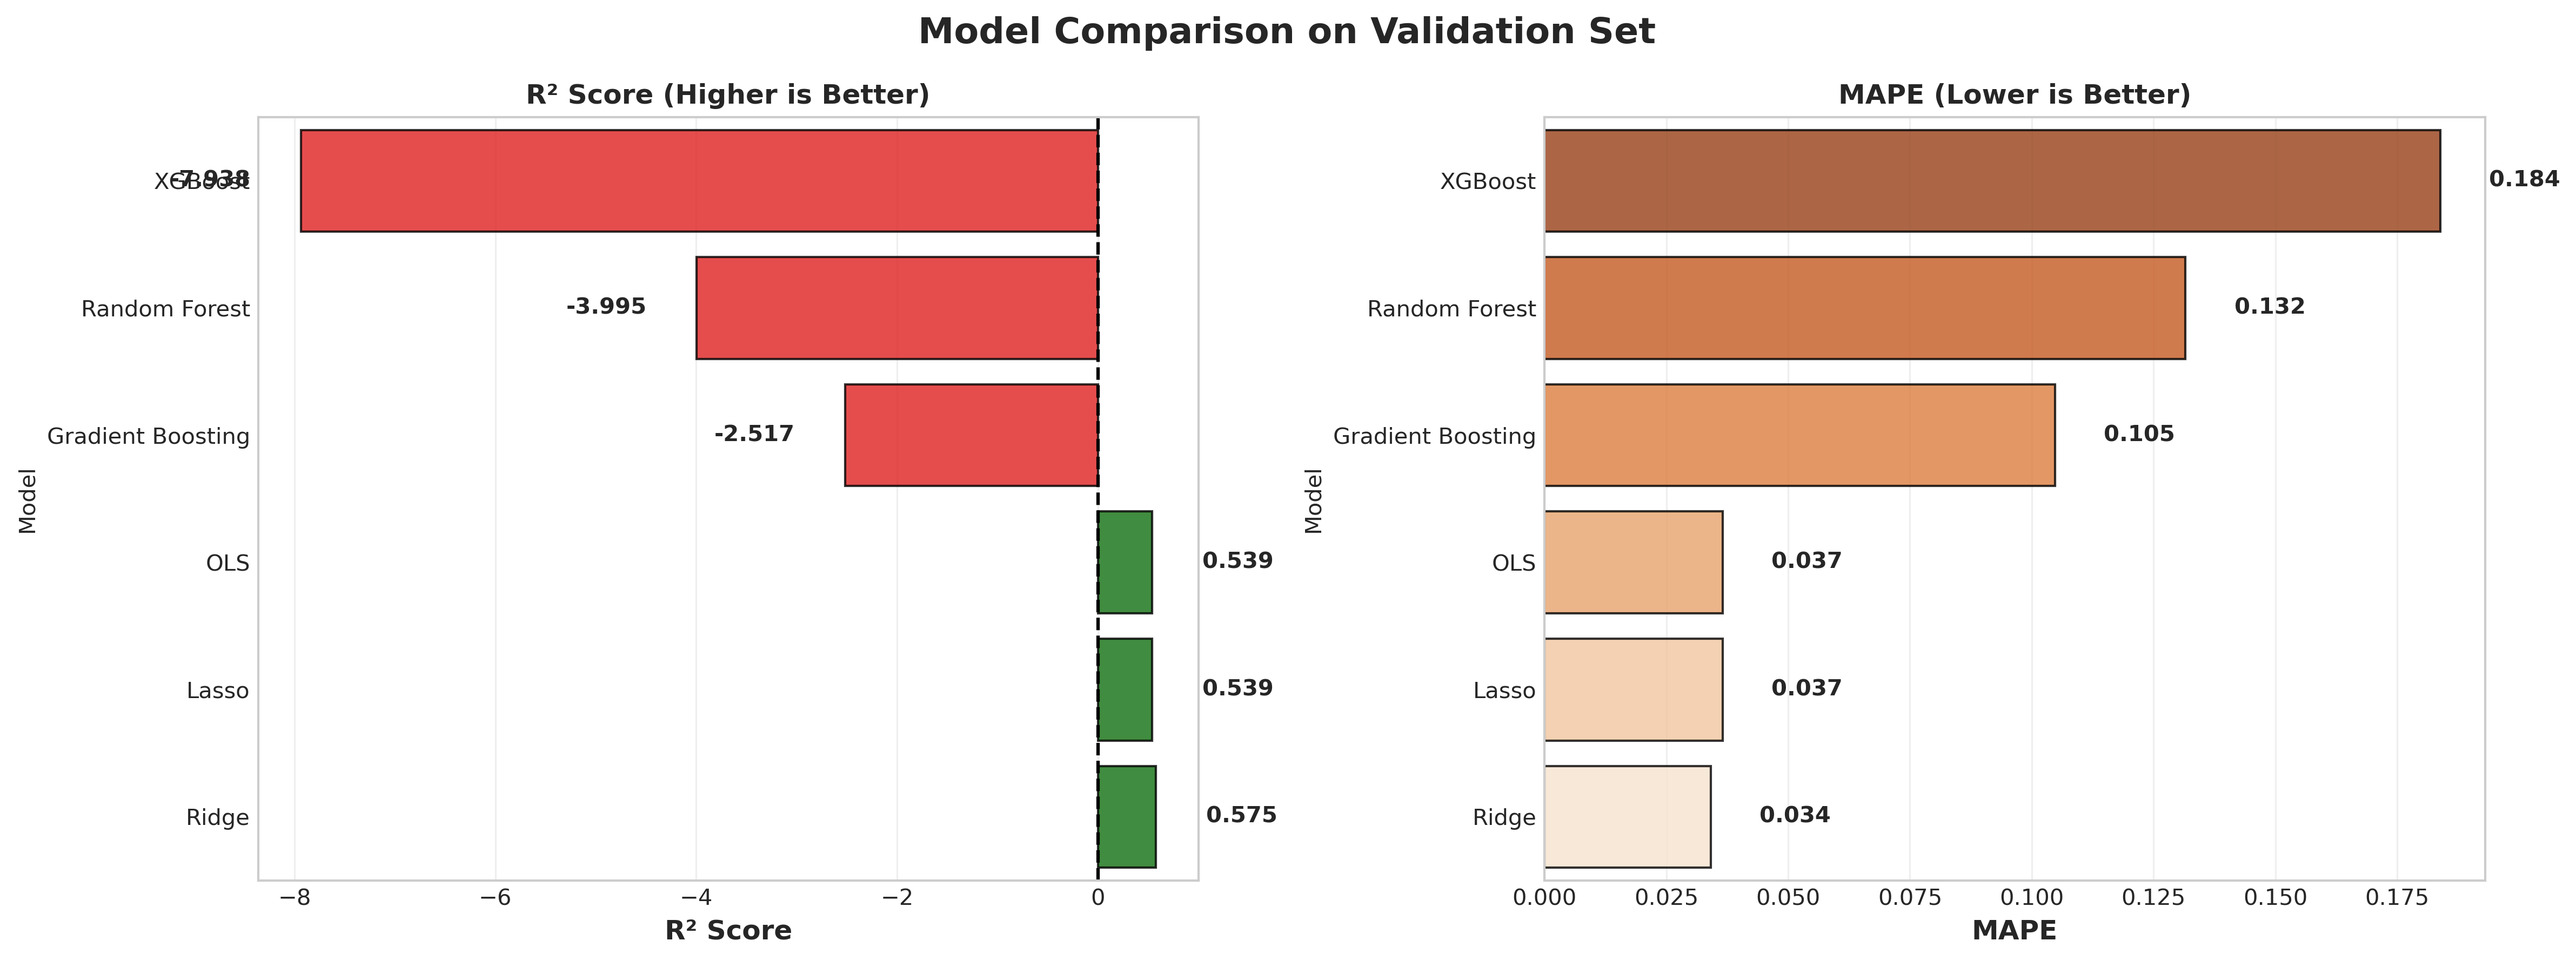
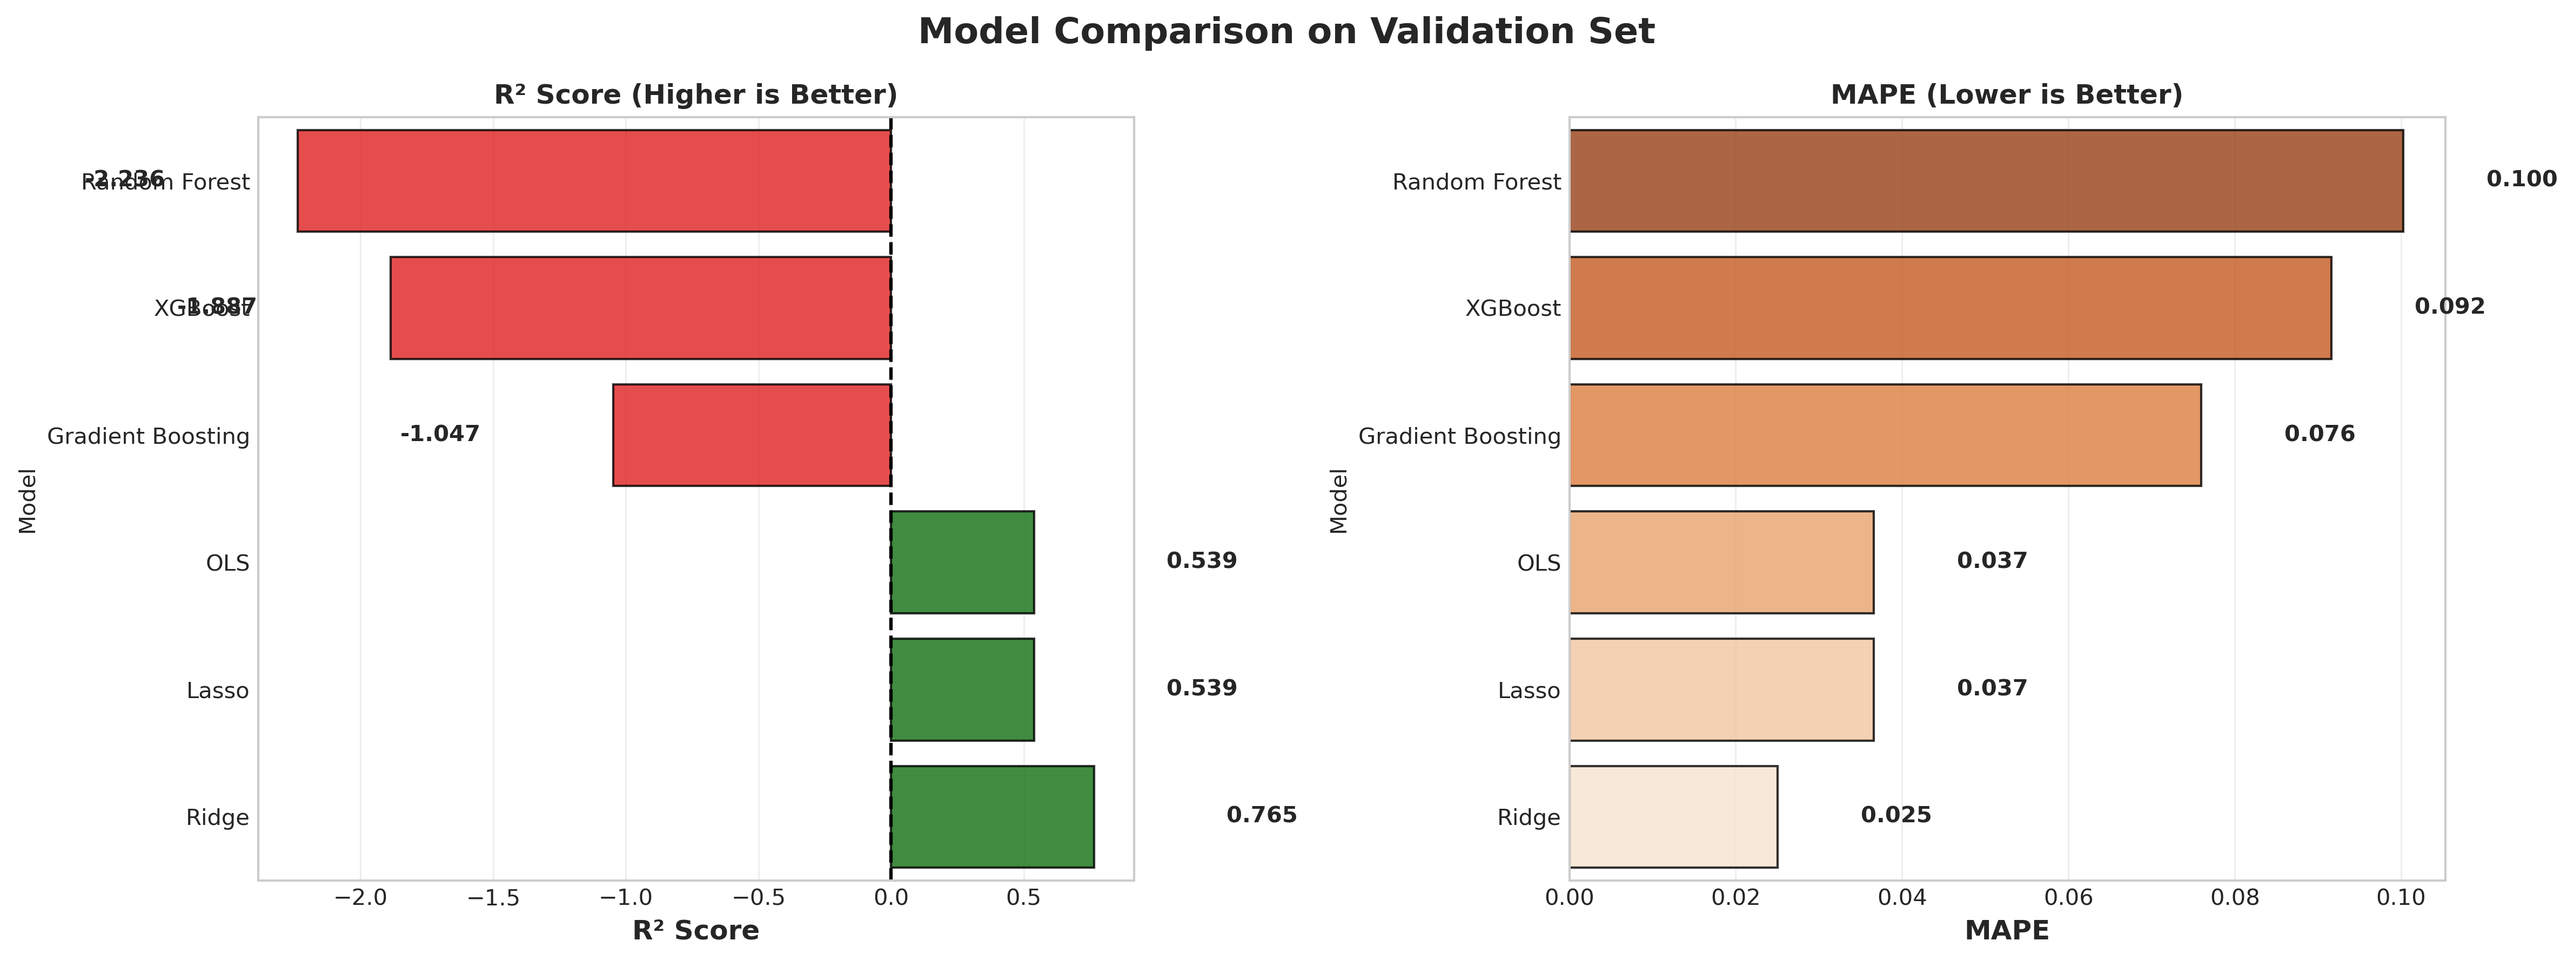
Add TimeSerieSplit to hyperparameters optimization, create tables for results

diff --git a/src/hyperparameters_optimization.py b/src/hyperparameters_optimization.py
@@ -7,7 +7,7 @@ import numpy as np
 import pandas as pd
 from sklearn.linear_model import LinearRegression, Ridge, Lasso
 from sklearn.ensemble import RandomForestRegressor, GradientBoostingRegressor
-from sklearn.model_selection import GridSearchCV
+from sklearn.model_selection import GridSearchCV, TimeSeriesSplit
 from sklearn.metrics import make_scorer, r2_score
 from xgboost import XGBRegressor
 
@@ -75,7 +75,10 @@ def optimize_linear_models(X_train_scaled, y_train, X_val_scaled, y_val):
 def optimize_tree_models(X_train, y_train):
     """Optimize tree models with GridSearchCV and return best parameters."""
     print("Optimizing tree models...")
-    
+
+    # Fixed CV splitter for temporal validation
+    cv = TimeSeriesSplit(n_splits=3)
+
     # Random Forest
     rf_grid = {
         'n_estimators': [10, 25, 50, 100],
@@ -89,8 +92,8 @@ def optimize_tree_models(X_train, y_train):
         RandomForestRegressor(random_state=42),
         rf_grid,
         scoring=make_scorer(r2_scorer),
-        cv=3,
-        n_jobs=-1,
+        cv=cv,
+        n_jobs=1,
         verbose=0,
         return_train_score=True
     )
@@ -118,8 +121,8 @@ def optimize_tree_models(X_train, y_train):
         XGBRegressor(random_state=42),
         xgb_grid,
         scoring=make_scorer(r2_scorer),
-        cv=3,
-        n_jobs=-1,
+        cv=cv,
+        n_jobs=1,
         verbose=0,
         return_train_score=True
     )
@@ -147,8 +150,8 @@ def optimize_tree_models(X_train, y_train):
         GradientBoostingRegressor(random_state=42),
         gb_grid,
         scoring=make_scorer(r2_scorer),
-        cv=3,
-        n_jobs=-1,
+        cv=cv,
+        n_jobs=1,
         verbose=0,
         return_train_score=True
     )

diff --git a/main.py b/main.py
@@ -143,6 +143,12 @@ def main():
         )
     )
 
+    # Export R² performance table (train/val/test per model)
+    performance_r2 = comparison_df.pivot(index="Model", columns="Split", values="R²")
+    performance_r2 = performance_r2[["Train", "Val", "Test"]]
+    performance_r2.to_csv("results/model_performance_r2.csv")
+    print("   ✓ Saved: results/model_performance_r2.csv")
+
     print("\n" + "=" * 70)
     print("OVERFITTING DIAGNOSIS")
 
@@ -224,7 +230,8 @@ def main():
     importance_df = compare_feature_importance(models_importance_no_year, feature_names)
     plot_feature_importance(importance_df, save_path='results/feature_importance.png')
     print("   ✓ Saved: results/feature_importance.png")
-    
+    importance_df.to_csv('results/feature_importance.csv')
+    print("   ✓ Saved: results/feature_importance.csv")
 
     # Print feature importance table
     print("\n" + "=" * 70)
@@ -279,7 +286,10 @@ def main():
     print("   ✓ Saved: results/shap_comparison.png")
         
     print("\nSHAP-based feature importance comparison:")
+    shap_comparison.index.name = "feature"
     print(shap_comparison.to_string(float_format="%.2f"))
+    shap_comparison.to_csv('results/shap_feature_importance.csv')
+    print("   ✓ Saved: results/shap_feature_importance.csv")
         
     # Generate individual SHAP plots for best model (Ridge)
     print(" - Generating SHAP summary for Ridge...")
